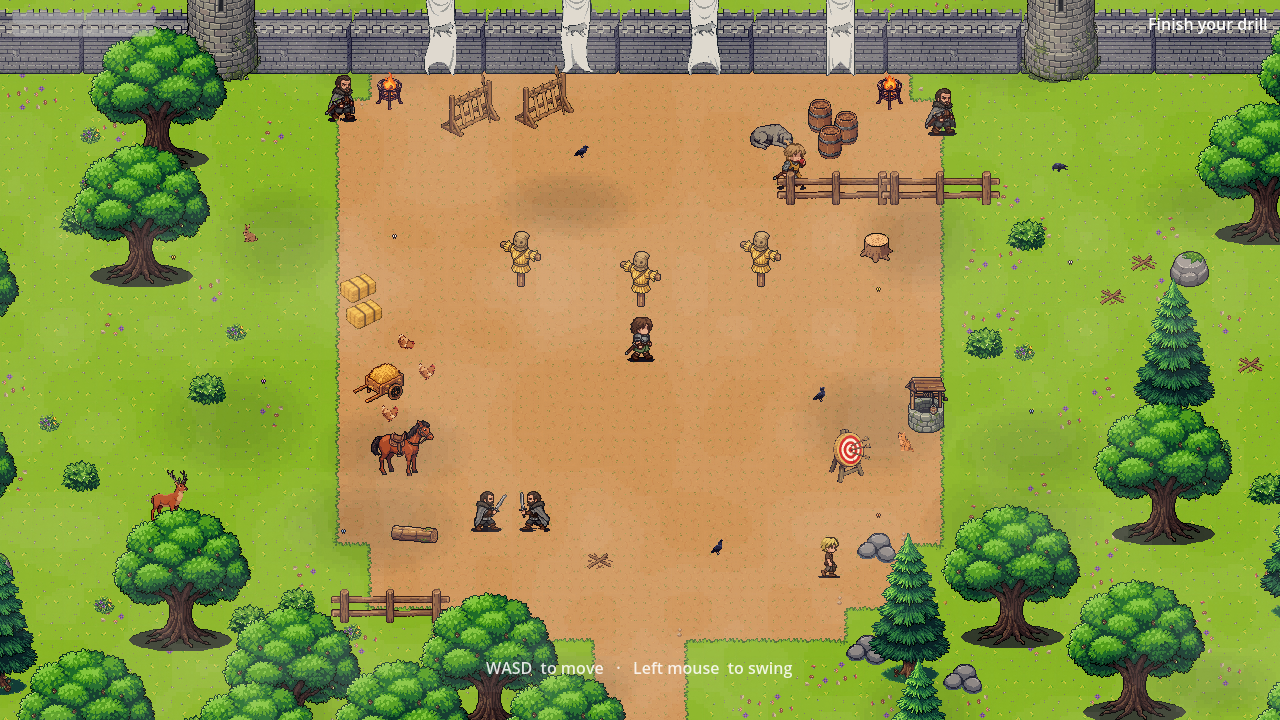
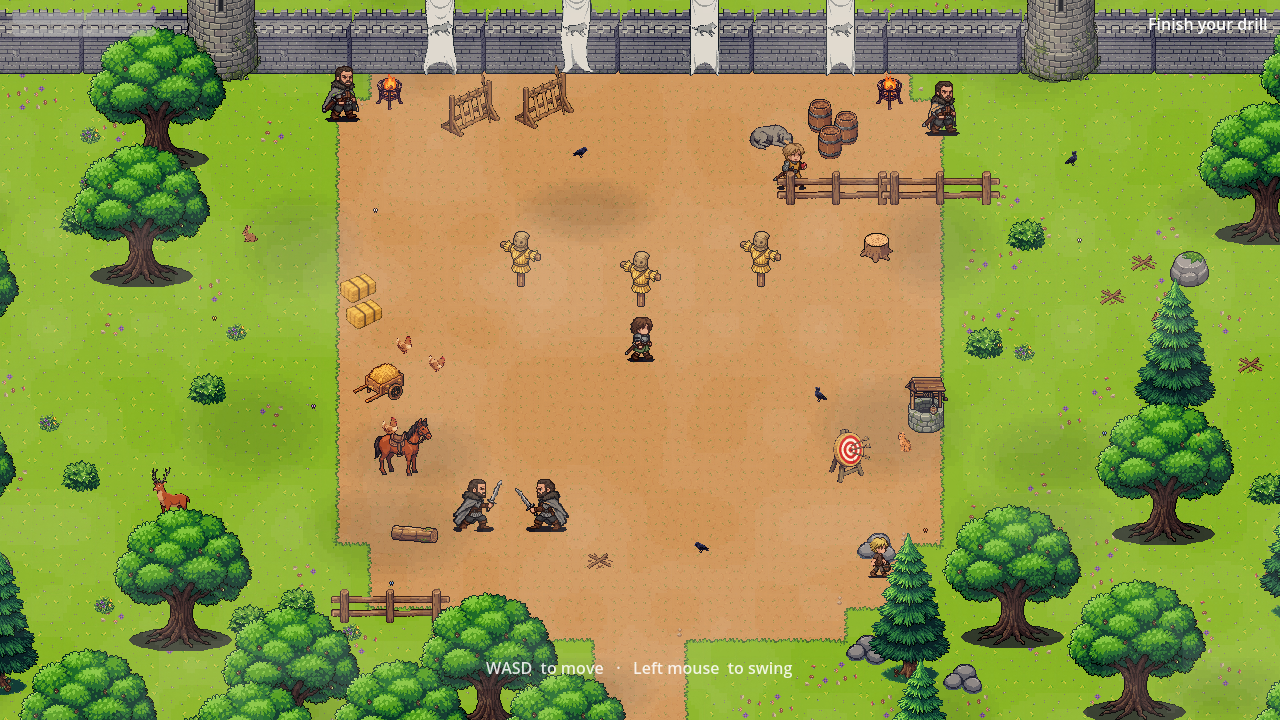
Make the guardsmen grown men: taller than Torren
The yard's guards were fitted to Torren's 48px, and the sparring pair's
height counted the raised sword, so their bodies came out ~41px -
smaller than a boy. Guards now stand 56px; the sparring strip is fitted
to 62px including the sword (~53px body in the fighting crouch). The
pair is spaced wider to fit the bigger figures.

Claude-Session: https://claude.ai/code/session_01CpyvPmprieFHcwKXWyZVJW

diff --git a/tools/build_life.py b/tools/build_life.py
@@ -49,10 +49,12 @@ LIFE = {
                  props={"flees_by": '"run"', "wander_radius": 30.0, "flee_radius": 110.0}),
     "stag": dict(kind="critter", height=56, anims={"idle": ("stag", 6, True, False)},
                  props={"flees_by": '"run"', "wander_radius": 30.0, "flee_radius": 160.0}),
-    "guard_idle": dict(kind="static", height=48, footprint=(16, 8), anims={"idle": ("guard_idle", 6, True, False)}),
-    # a sparring pair: the same drill, one mirrored, placed facing each other
-    "guard_spar_r": dict(kind="static", height=48, footprint=(16, 8), anims={"idle": ("guard_spar", 9, True, False)}),
-    "guard_spar_l": dict(kind="static", height=48, footprint=(16, 8), anims={"idle": ("guard_spar", 9, True, True)}),
+    # grown men stand taller than Torren (45px idle, 48px walking)
+    "guard_idle": dict(kind="static", height=56, footprint=(18, 8), anims={"idle": ("guard_idle", 6, True, False)}),
+    # a sparring pair: the same drill, one mirrored, placed facing each other. Height counts
+    # the raised sword (frame 2); the body in its fighting crouch comes out ~53px.
+    "guard_spar_r": dict(kind="static", height=62, footprint=(18, 8), anims={"idle": ("guard_spar", 9, True, False)}),
+    "guard_spar_l": dict(kind="static", height=62, footprint=(18, 8), anims={"idle": ("guard_spar", 9, True, True)}),
     "stable_boy": dict(kind="walker", height=42, anims={"walk_right": ("stable_boy_walk", 8, True, False)}),
     # frames only: used by scripts/life/bird_flyover.gd, not placed as a scene
     "bird": dict(kind="frames", height=18, anims={"fly": ("bird_fly", 12, True, False)}),

diff --git a/tools/build_props.py b/tools/build_props.py
@@ -127,7 +127,7 @@ def training_yard() -> list[tuple]:
         ("life/horse", -238, 104), ("well", 286, 60), ("archery_target", 210, 110),
         ("life/hen", -236, -14), ("life/hen", -214, 8), ("life/hen", -250, 50),
         # life in the yard
-        ("life/guard_spar_r", -150, 160), ("life/guard_spar_l", -108, 160),
+        ("life/guard_spar_r", -162, 160), ("life/guard_spar_l", -98, 160),
         ("life/guard_idle", -300, -250), ("life/guard_idle", 300, -236),
         ("life/hound_sleeping", 132, -222), ("life/cat", 266, 80),
         ("life/crow", 70, 180), ("life/crow", -60, -214), ("life/crow", 180, 30),
